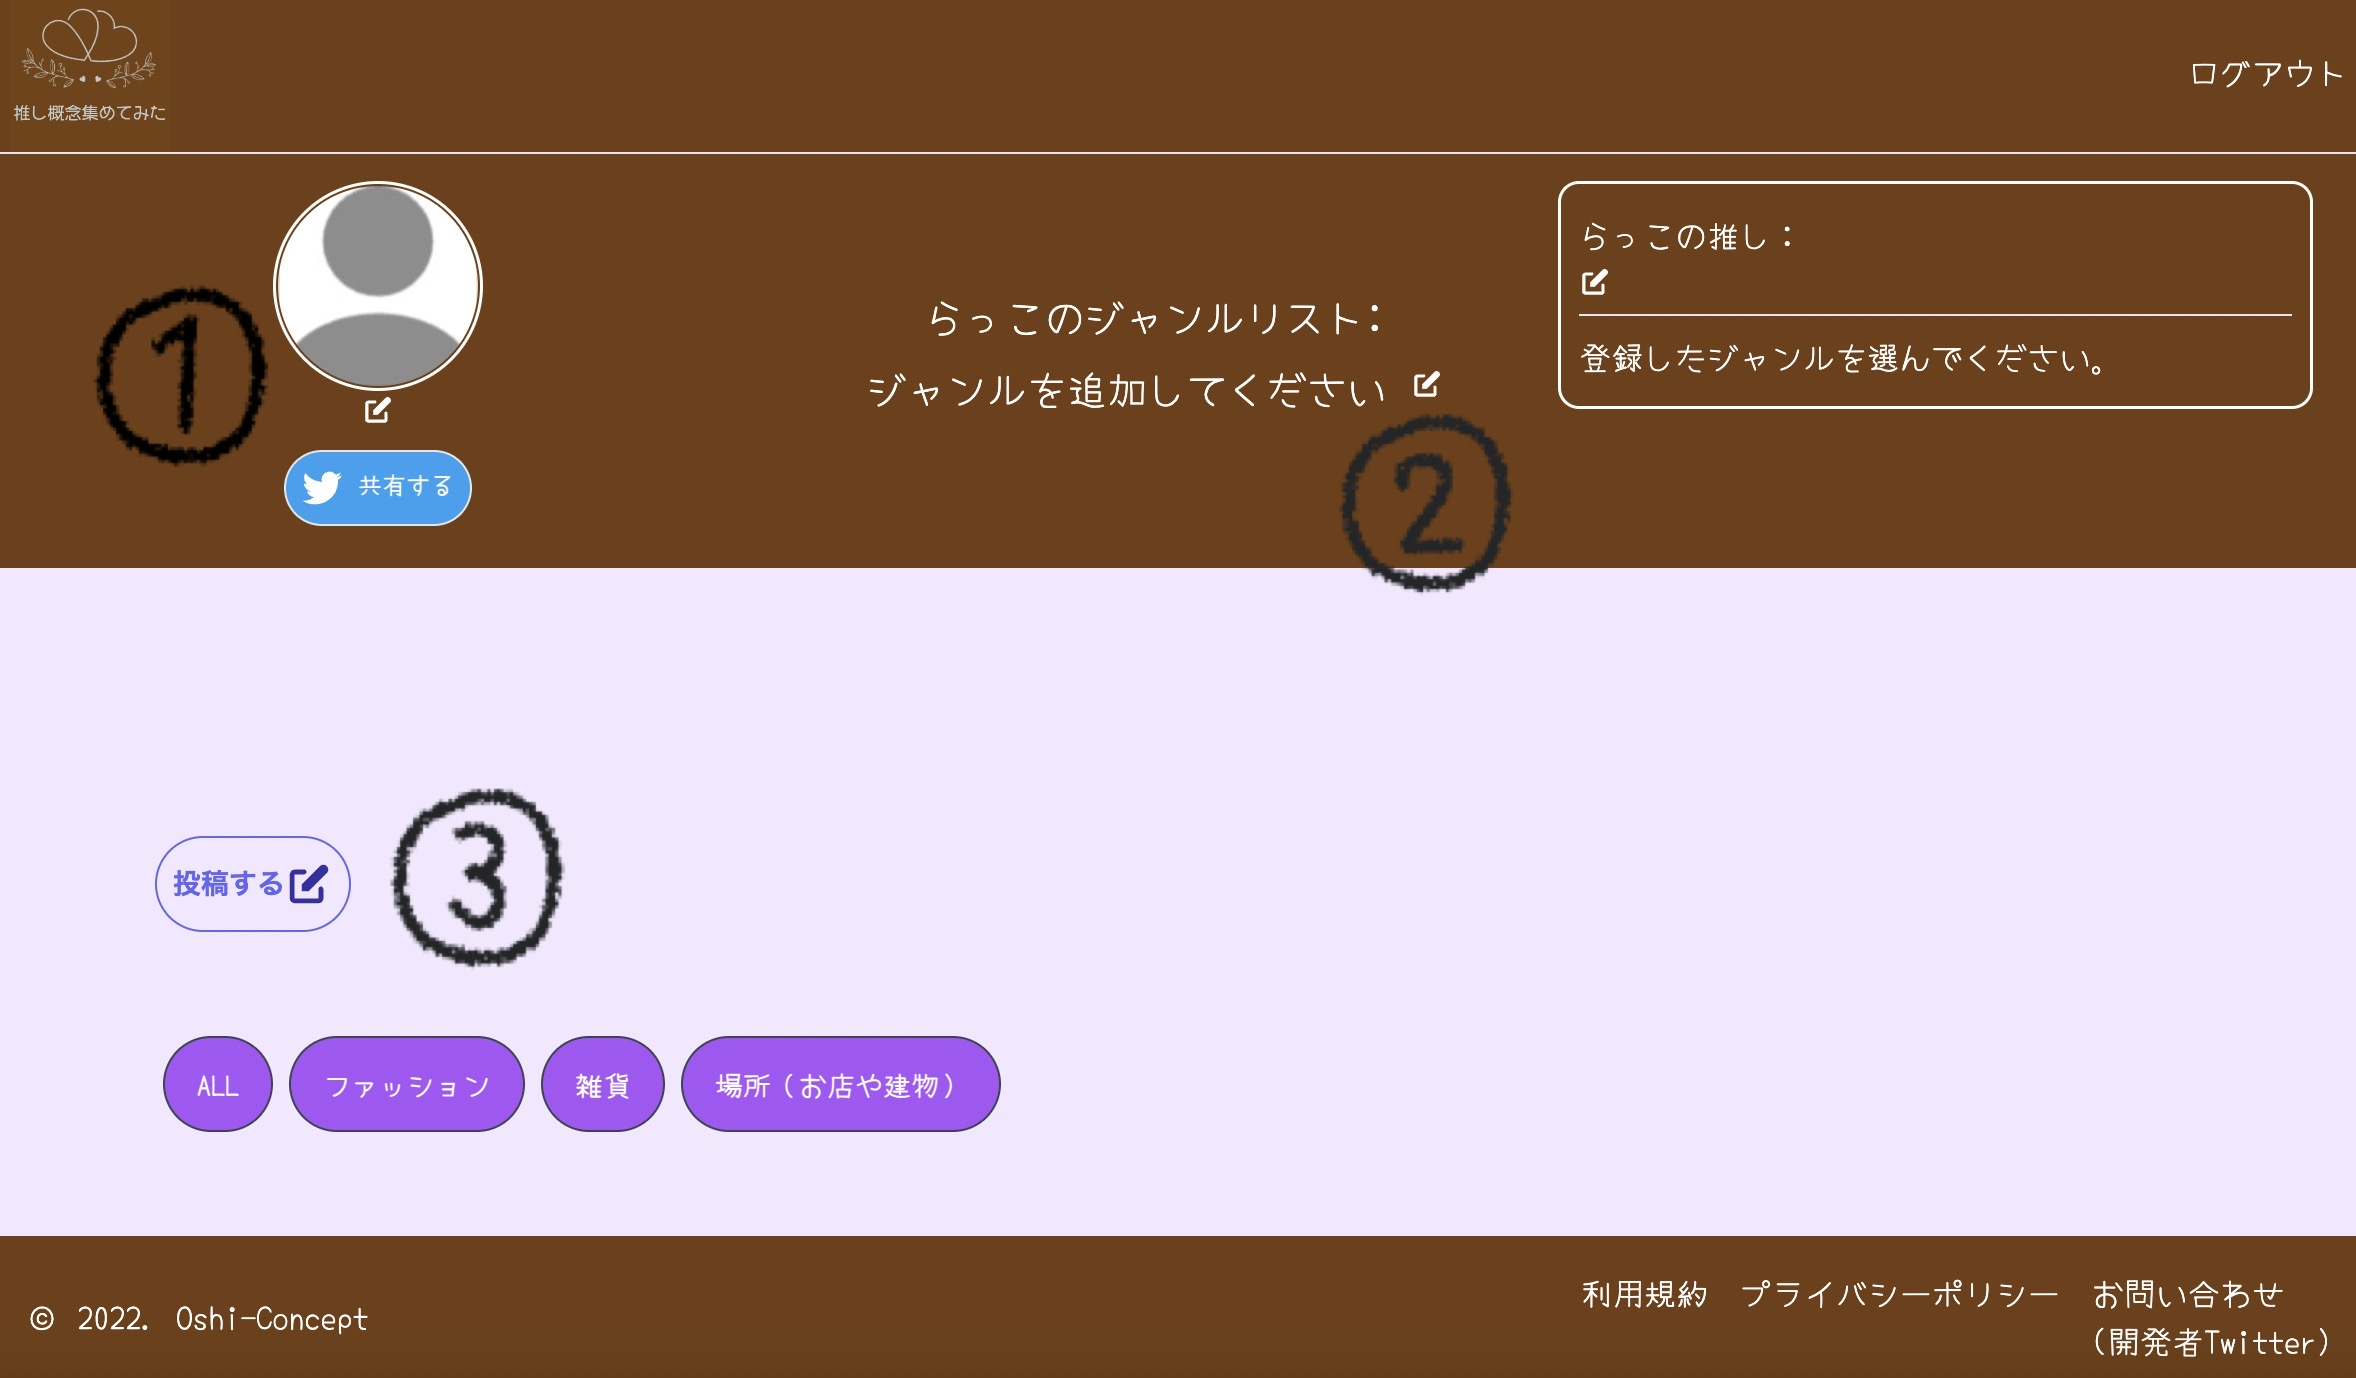
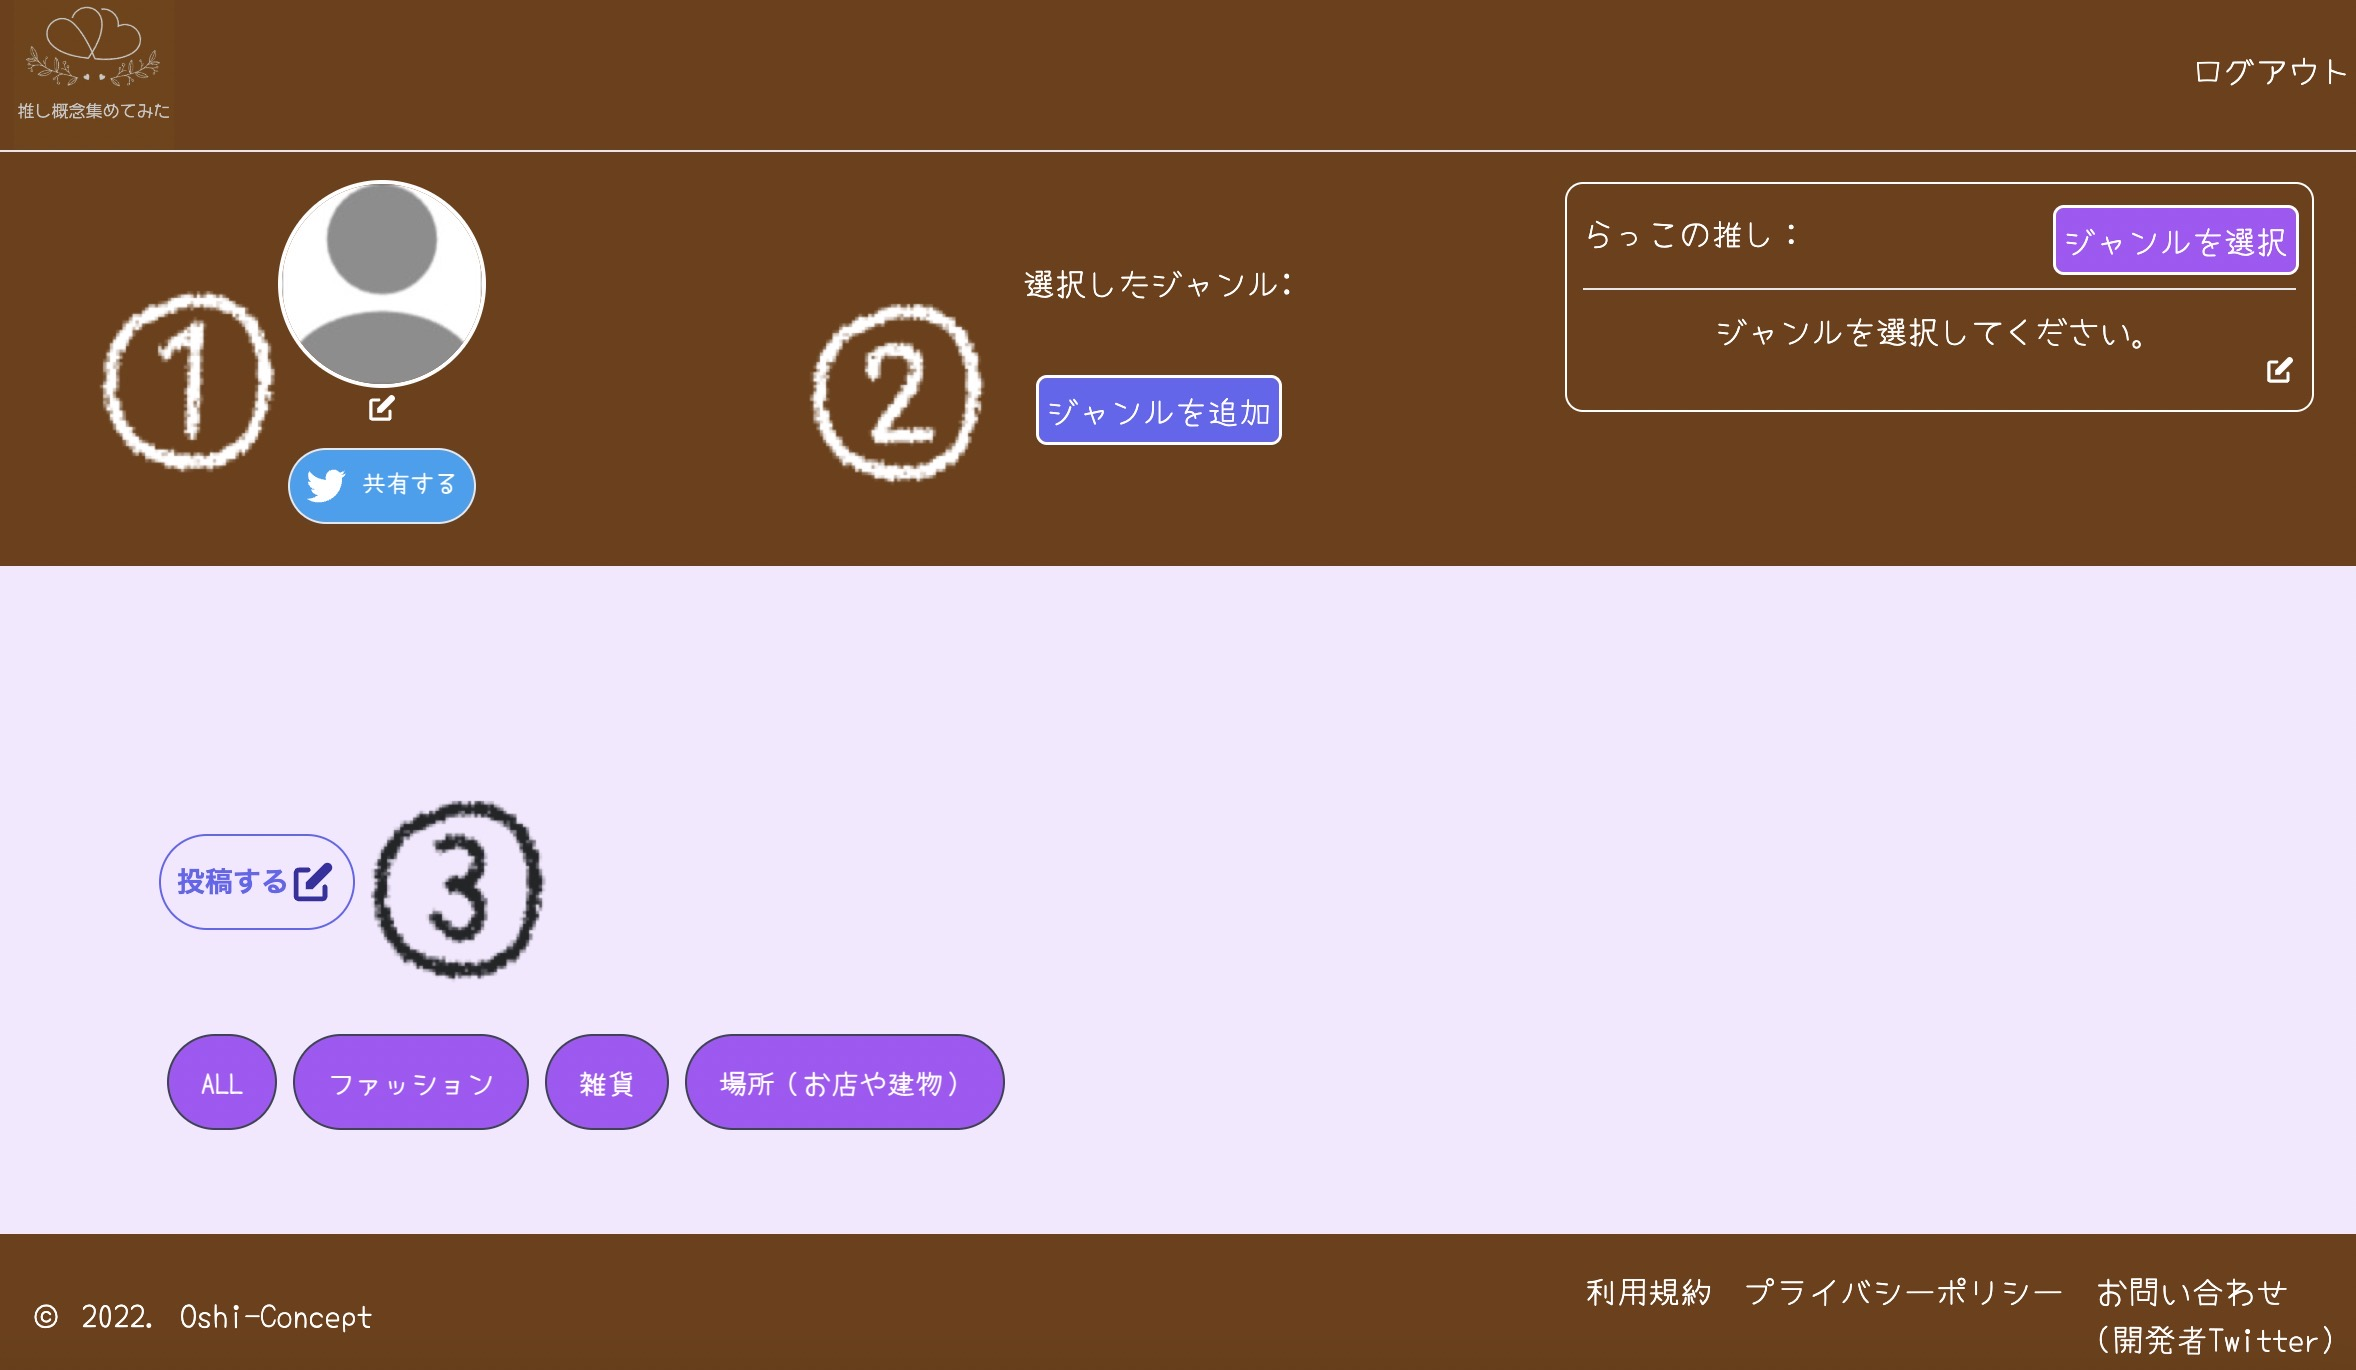
Fix:マイページヘッダーのレイアウト変更とそれに伴いTOPページの画像を変更

diff --git a/app/javascript/components/MypageHeader.vue b/app/javascript/components/MypageHeader.vue
@@ -56,19 +56,15 @@
           </ul>
         </div>
         <div class="flex flex-col my-auto -ml-4 pr-2 items-center">
-          <p class="page-font text-xs lg:text-xl text-white mb-3 -mt-6"><span class="page-font text-xs lg:text-xl">{{ user.name }}</span>のジャンルリスト:</p>
+          <p class="page-font text-xs lg:text-base text-white mb-3 -mt-6">選択したジャンル:</p>
+          <p v-if="mygenre" class="page-font text-bold text-sm lg:text-xl text-white">{{genre}}</p>
           <div class="flex">
-            <p class="page-font text-xs lg:text-xl text-white mr-3 -mt-1" v-if="mygenres.length === 0">ジャンルを追加してください</p>
-            <router-link v-if="loginUser" :to="{ name: 'MypageNew' }" class="nav-link mb-3">
-              <svg xmlns="http://www.w3.org/2000/svg" class="h-4 w-4 text-white" viewBox="0 0 20 20" fill="currentColor">
-                <path d="M17.414 2.586a2 2 0 00-2.828 0L7 10.172V13h2.828l7.586-7.586a2 2 0 000-2.828z" />
-                <path fill-rule="evenodd" d="M2 6a2 2 0 012-2h4a1 1 0 010 2H4v10h10v-4a1 1 0 112 0v4a2 2 0 01-2 2H4a2 2 0 01-2-2V6z" clip-rule="evenodd" />
-              </svg>
+            <router-link v-if="loginUser" :to="{ name: 'MypageNew' }" class="nav-link mt-6">
+              <button class="page-font bg-indigo-500 text-white active:bg-indigo-600 uppercase text-xs lg:text-base px-1 py-1 rounded shadow hover:shadow-lg outline ease-linear transition-all duration-150" type="button">
+                ジャンルを追加
+              </button>
             </router-link>
           </div>
-          <button class="page-font bg-purple-500 text-white active:bg-purple-600 font-bold uppercase text-sm px-6 py-3 rounded shadow hover:shadow-lg outline mr-1 mb-1 ease-linear transition-all duration-150" type="button" v-on:click="toggleModal()">
-            見たいジャンルを選ぶ
-          </button>
           <div v-if="showModal" class="overflow-x-hidden overflow-y-auto fixed inset-0 z-50 outline-none focus:outline-none justify-center items-center flex">
             <div class="relative w-auto my-6 mx-auto max-w-sm">
               <!--content-->
@@ -78,7 +74,7 @@
                   class="modal-header flex flex-shrink-0 items-center p-2 justify-between border-b border-gray-200 rounded-t-md bg-gray-700"
                 >
                   <p class="page-font text-white">
-                    ジャンルを選択
+                    {{ user.name }}</span>のジャンルリスト:
                   </p>
                   <button
                     type="button"
@@ -91,9 +87,10 @@
                 <!--body-->
                 <div class="relative p-6 flex-auto">
                   <div class="flex flex-col justify-between items-center">
+                    <p class="page-font text-xs lg:text-xl mr-3 -mt-1" v-if="mygenres.length === 0">追加済みのジャンルがありません。</p>
                     <div class="w-full my-1" v-for="(mygenre, index) in mygenres" :key="mygenre.id">
                       <button
-                        class="page-font text-white text-xs lg:text-base bg-purple-600 hover:bg-purple-900 border rounded-full p-2"
+                        class="page-font text-white text-sm lg:text-base bg-purple-600 hover:bg-purple-900 border rounded-full p-2"
                         @click="fetchBoth(mygenre)"
                         v-bind:class="{'active': isActive === index}" v-on:click="isSelect(index)"
                       >{{ mygenre.genre.name }}</button>
@@ -103,23 +100,27 @@
               </div>
             </div>
           </div>
-          <p v-if="mygenre" class="page-font text-white">{{genre}}</p>
           <div v-if="showModal" class="opacity-25 fixed inset-0 z-40 bg-black"></div>
         </div>
         <div class="ring-white ring-1 h-max -mr-3 lg:mr-3 px-2 py-3 rounded-lg">
-          <p class="page-font mb-1 text-xs lg:text-base text-white"><span class="page-font">{{ user.name }}</span>の推し：</p>
-          <router-link v-if="loginUser" :to="{ name: 'MygenresEdit' }" class="nav-link">
-            <svg xmlns="http://www.w3.org/2000/svg" class="h-4 w-4 text-white" viewBox="0 0 20 20" fill="currentColor">
-              <path d="M17.414 2.586a2 2 0 00-2.828 0L7 10.172V13h2.828l7.586-7.586a2 2 0 000-2.828z" />
-              <path fill-rule="evenodd" d="M2 6a2 2 0 012-2h4a1 1 0 010 2H4v10h10v-4a1 1 0 112 0v4a2 2 0 01-2 2H4a2 2 0 01-2-2V6z" clip-rule="evenodd" />
-            </svg>
-          </router-link>
+          <div class="flex justify-between">
+            <p class="page-font mb-1 text-xs lg:text-base text-white"><span class="page-font">{{ user.name }}</span>の推し：</p>
+            <button class="page-font bg-purple-500 text-white active:bg-purple-600 uppercase text-xs lg:text-base px-1 py-1 rounded shadow hover:shadow-lg outline ease-linear transition-all duration-150" type="button" v-on:click="toggleModal()">
+              ジャンルを選択
+            </button>
+          </div>
           <hr class="my-2" />
           <div class="flex flex-col justify-between">
-            <p class="page-font text-xs lg:text-base text-white" v-if="mygenreCharacters.length === 0">登録したジャンルを選んでください。</p>
+            <p class="text-center page-font text-xs lg:text-base text-white" v-if="mygenreCharacters.length === 0">ジャンルを選択してください。</p>
             <ul v-for="mygenreCharacter in mygenreCharacters" class="rounded">
               <li class="page-font text-xs lg:text-base text-white">{{ mygenreCharacter.character.name }}</li>
             </ul>
+            <router-link v-if="loginUser" :to="{ name: 'MygenresEdit' }" class="nav-link flex justify-end">
+              <svg xmlns="http://www.w3.org/2000/svg" class="h-4 w-4 text-white" viewBox="0 0 20 20" fill="currentColor">
+                <path d="M17.414 2.586a2 2 0 00-2.828 0L7 10.172V13h2.828l7.586-7.586a2 2 0 000-2.828z" />
+                <path fill-rule="evenodd" d="M2 6a2 2 0 012-2h4a1 1 0 010 2H4v10h10v-4a1 1 0 112 0v4a2 2 0 01-2 2H4a2 2 0 01-2-2V6z" clip-rule="evenodd" />
+              </svg>
+            </router-link>
           </div>
         </div>
       </div>
@@ -142,7 +143,7 @@ export default {
       user: "",
       isActive: '',
       loginUser: "",
-      showModal: false
+      showModal: false,
     }
   },
   computed: {
@@ -155,6 +156,7 @@ export default {
     this.displayCharacter();
     this.fetchBoth(this.mygenre)
     this.fetchUser();
+    this.isSelect();
   },
   methods: {
     ...mapMutations([
@@ -192,8 +194,7 @@ export default {
     isSelect: function (index) {
       this.isActive = index;
       this.genre = this.mygenre.genre.name
-      console.log(this.genre)
-      this.showModal = !this.showModal;
+      this.showModal = false
     },
     fetchUser() {
       this.$axios.get("users", {
